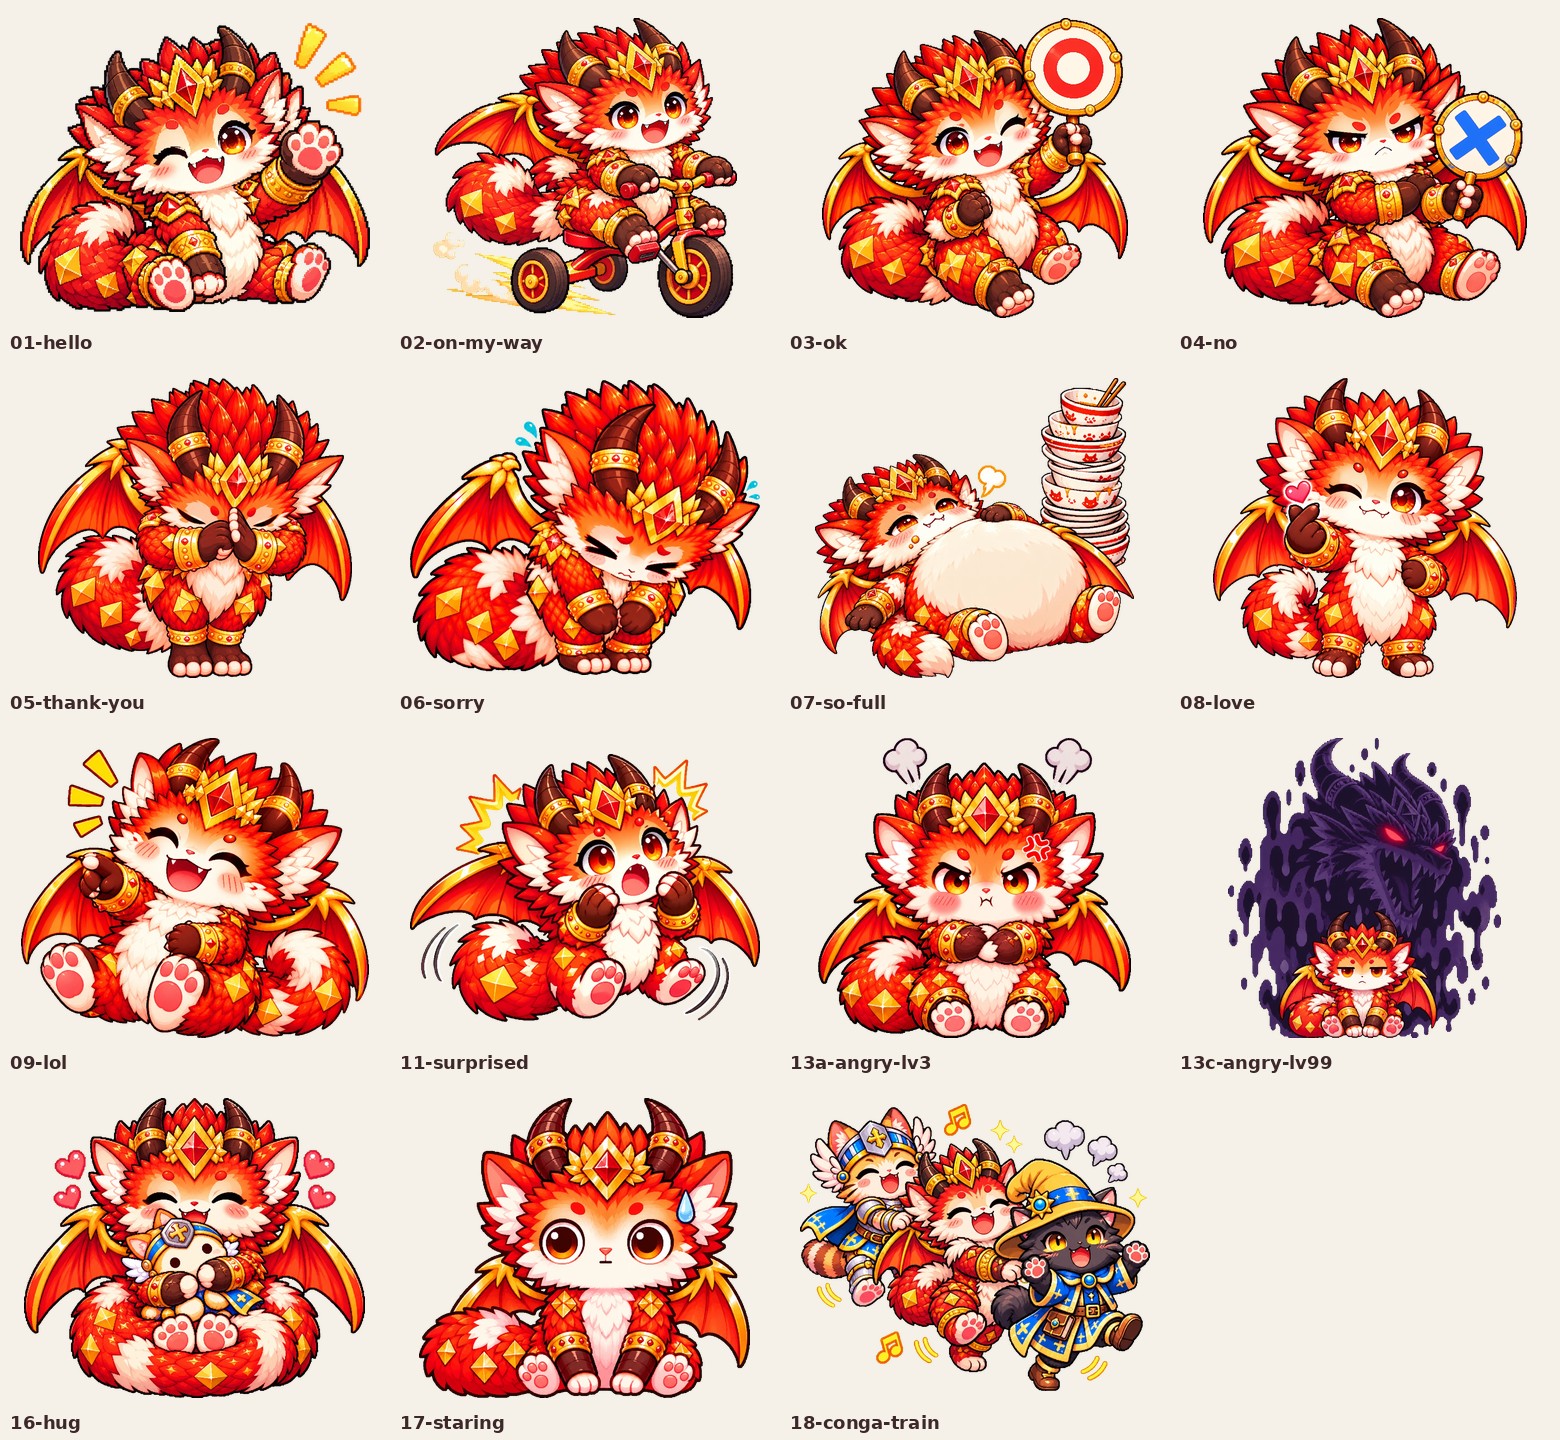
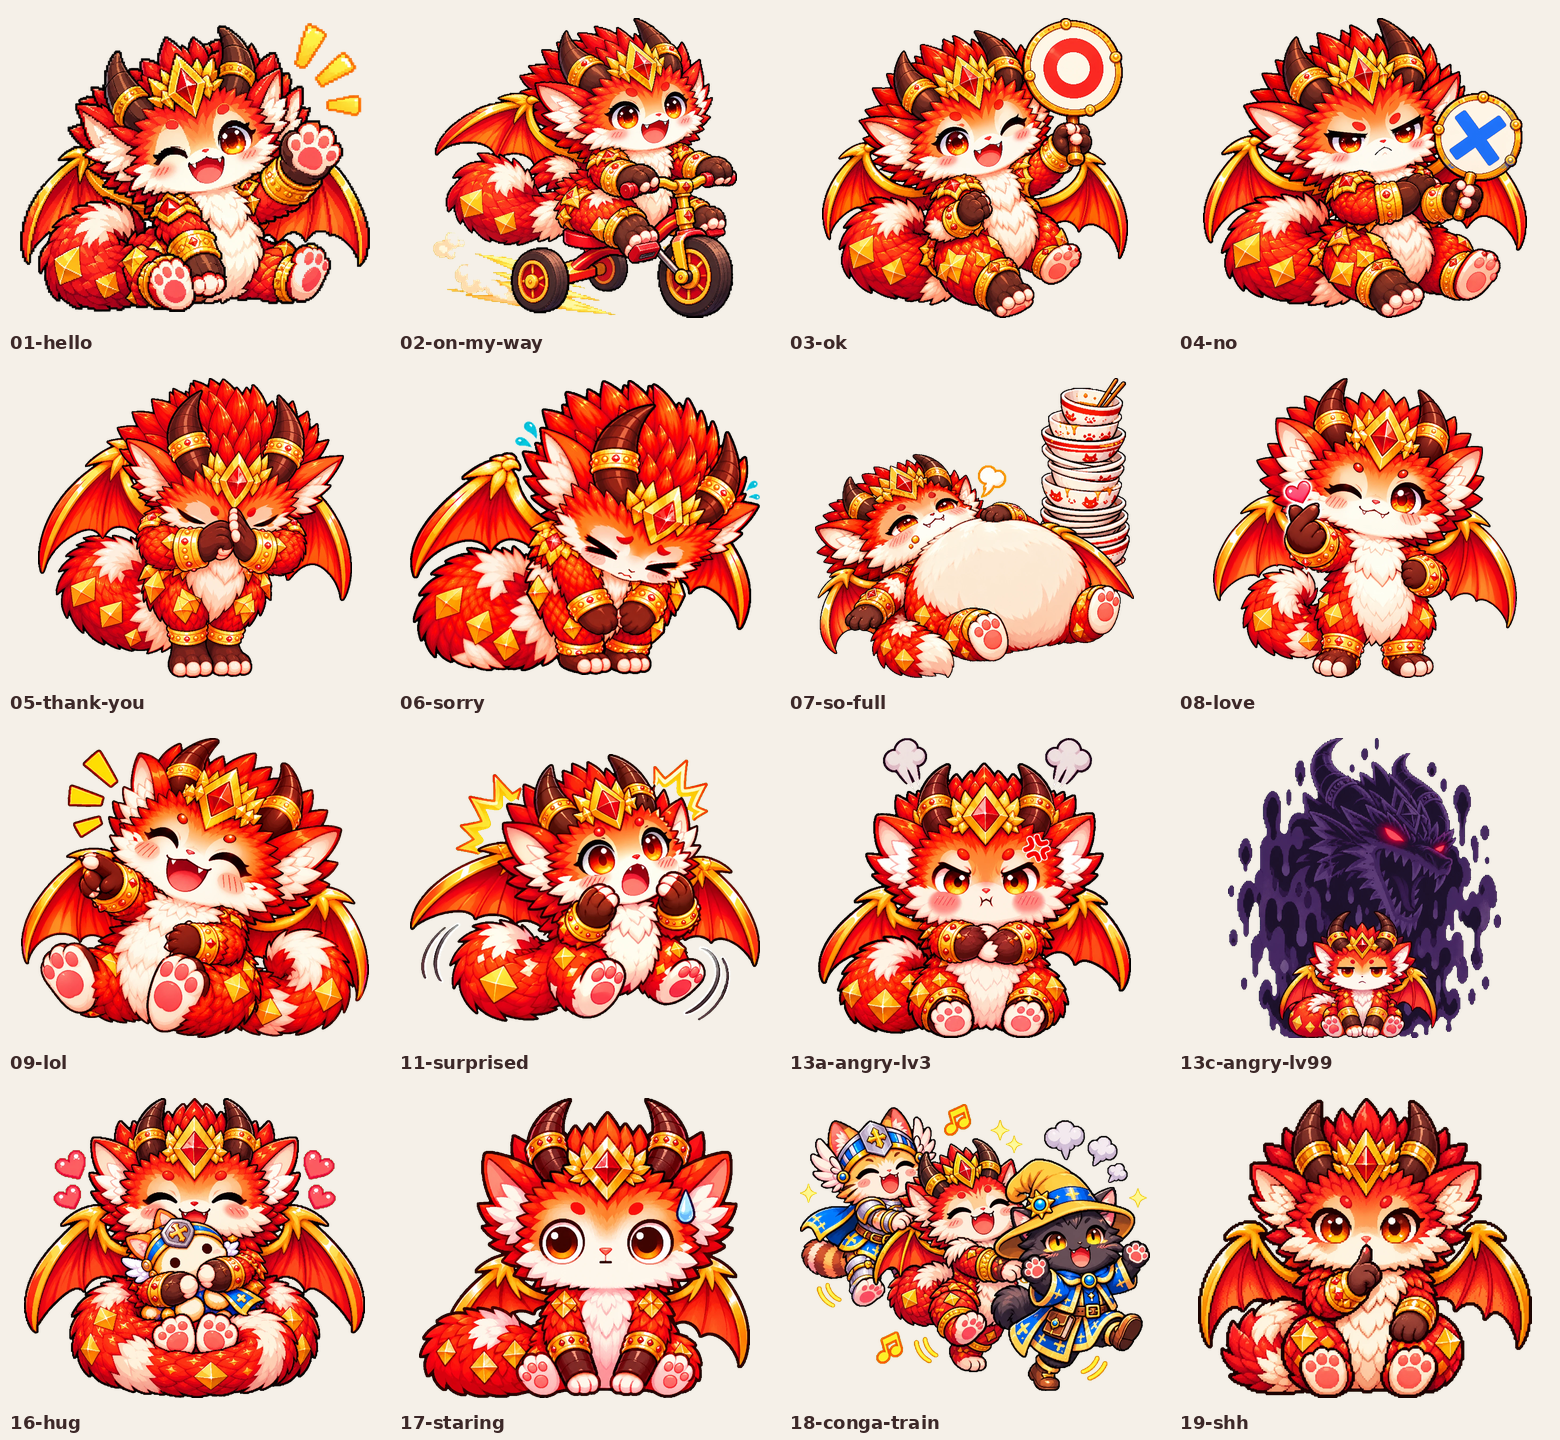
MawKorn: 19 Shh approved, 16 stickers complete
Claude-Session: https://claude.ai/code/session_01CqN5TM8CtnKZx6KMXb1z93

Changed region(s): [[0.7692, 0.75, 0.9846, 1.0]]

diff --git a/mangkorn/PLAN.md b/mangkorn/PLAN.md
@@ -113,4 +113,4 @@ Stickers the user SENDS appear on the RIGHT of the chat, stickers received appea
 - Ert (cat mage) sheets saved: `ert/references/ert-head-sheet.png`, `ert-body-sheet.png`; combined attach image `ert/references/attach-conga.png`.
 - Sticker 18: Mx + MawKorn + Ert conga train. Prompt `prompts/18-conga-train.md`. **Approved: v1** (same image the user re-sent; v2 and the v3 prompt were worse/unneeded: "the more I fix, the worse") → `stickers/18-conga-train.png` (370×308, 199 KB). Extra sticker: set count to decide.
 
-- 19 Shh (hush gesture, front view, user's request): `prompts/19-shh.md`. Would make the 16th sticker (15 approved). Waiting for the image.
+- 19 Shh: **approved v1** (full body; the close-up v2 was cut off at the edges) → `stickers/19-shh.png`. **Set now has 16 approved stickers.** Next: main image 240×240, tab 96×74, upload order, ZIP (ask the user).
